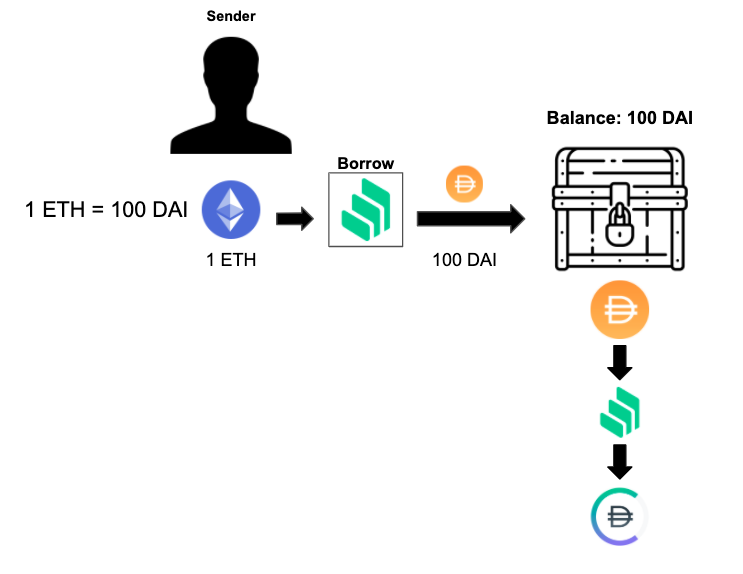
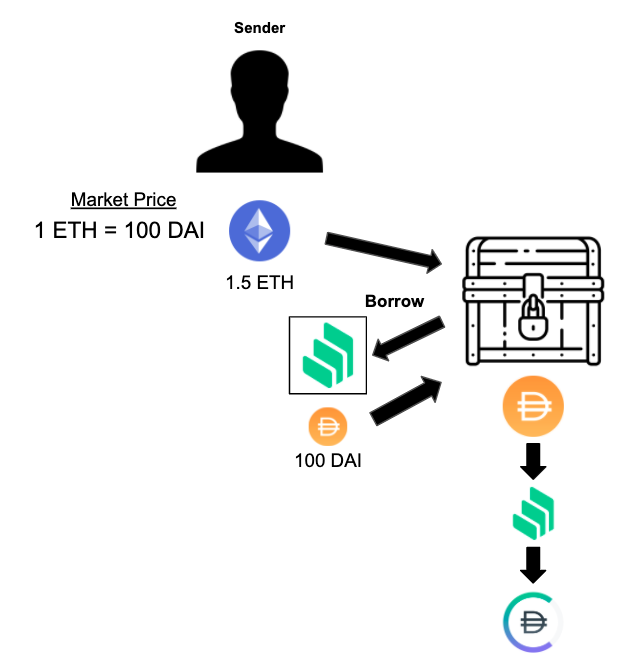
updated readMe and removed comment from contracts

Changed region(s): [[0.0297, 0.0, 0.9515, 0.9774]]

diff --git a/README.md b/README.md
@@ -2,7 +2,7 @@
 _Earn interest while sending payments off chain_
 
 ## Description
-cChannels are a series of payment channel contracts that support both Ether and ERC20 payments. When the funds are deposited into a cChannel, they are then locked into Compound and are constantly earning interest for the depositor, while spending the funds off chain. Users can directly add more funds to the contract or even borrow against different collateral types supported by Compound to fund their channel (Borrow DAI to fund a DAI channel against ETH).
+cChannels are a series of payment channel contracts that support both Ether and ERC20 payments. When the funds are deposited into a cChannel, they are then locked into Compound and are constantly earning interest for the depositor, while they are spending the funds off chain. Users can directly add more funds to the contract or even borrow against different collateral types supported by Compound to fund their channel (Borrow DAI against ETH to fund a DAI cChannel).
 
 ## Contract Addresses (Kovan)
 * Channel Factory: 0xC87a2Bc93dbFa4Fa0E0C34Bacfab09dF48F58403
@@ -18,7 +18,7 @@ cChannels are a series of payment channel contracts that support both Ether and 
 * sigUtil to verify signatures on the frontend
 * React with Rebass
 
-## Transaction BenchMarks
+## Transaction Benchmarks
 
 ![](src/Images/benchmarks.png)
 
@@ -42,3 +42,8 @@ _Sender borrows DAI from Compound to fund the channel against their Ether._
 _Recipient closes the channel and withdraws their alloted amount and the sender is returned the remaining amount plus the interest accrued. The sender is able to repay their debt to Compound at anytime and withdaw the asset they borrow against. Note that the sender is better off because they borrowed the Eth to fund the DAI channel since the market price for Eth went from 1ETH = 100DAI to 1ETH = 200DAI._
 
 ![](src/Images/closeBorrow.png)
+
+### Force Closing a Channel
+_The force close function can only be called by the sender if the current time is greater than the end time that was specified when the channel was created. It is meant to be an action of last resort if the recipient never submits a signature._
+
+![](src/Images/forceC.png)
